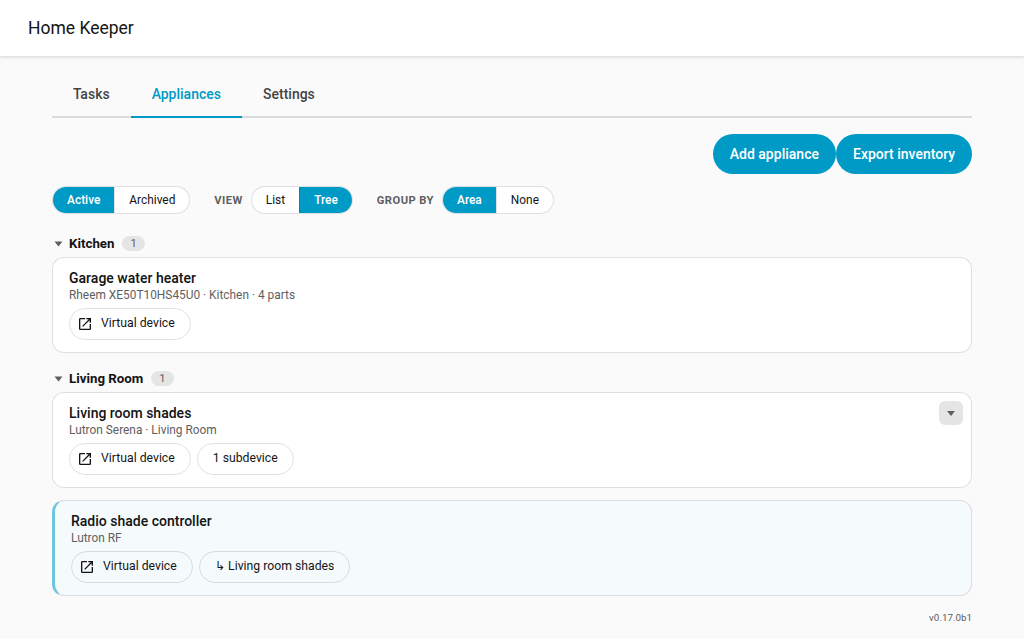
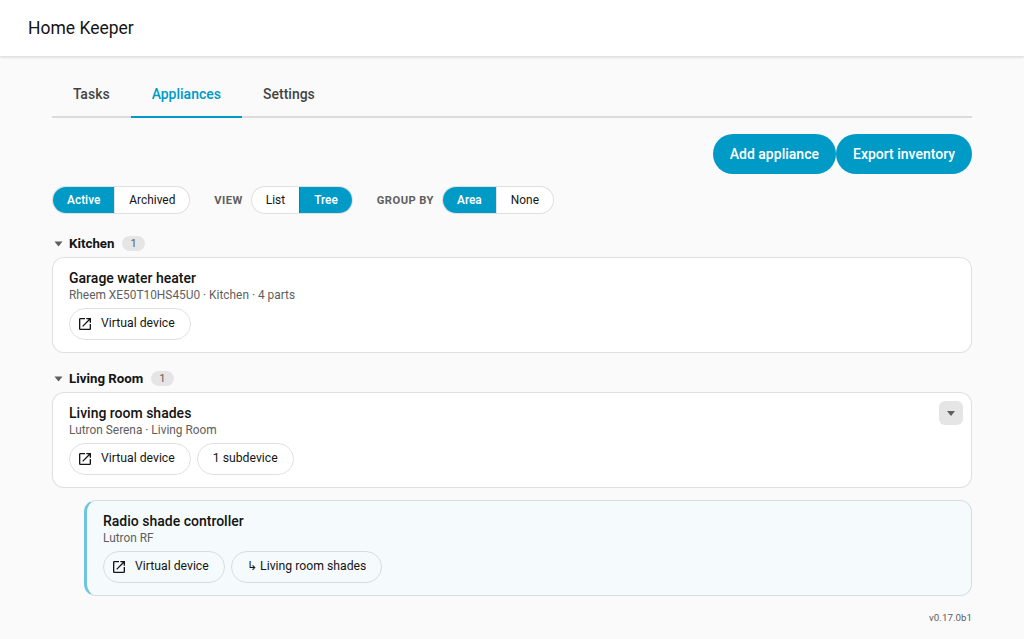
Deploy preview for PR 245 🛫

Changed region(s): [[0.0625, 0.7731, 0.375, 0.9218]]

diff --git a/pr-preview/pr-245/assets/js/33a0bd42.28cececa.js b/pr-preview/pr-245/assets/js/33a0bd42.28cececa.js
@@ -1,0 +1,1 @@
[1 lines of base64/hex data omitted]

diff --git a/pr-preview/pr-245/assets/js/runtime~main.3feedff0.js b/pr-preview/pr-245/assets/js/runtime~main.3feedff0.js
@@ -1,0 +1,1 @@
+(()=>{"use strict";var e,a,r,t,d,f={},o={};function c(e){var a=o[e];if(void 0!==a)return a.exports;var r=o[e]={exports:{}};return f[e].call(r.exports,r,r.exports,c),r.exports}c.m=f,e=[],c.O=(a,r,t,d)=>{if(!r){var f=1/0;for(i=0;i<e.length;i++){for(var[r,t,d]=e[i],o=!0,n=0;n<r.length;n++)(!1&d||f>=d)&&Object.keys(c.O).every(e=>c.O[e](r[n]))?r.splice(n--,1):(o=!1,d<f&&(f=d));if(o){e.splice(i--,1);var b=t();void 0!==b&&(a=b)}}return a}d=d||0;for(var i=e.length;i>0&&e[i-1][2]>d;i--)e[i]=e[i-1];e[i]=[r,t,d]},c.n=e=>{var a=e&&e.__esModule?()=>e.default:()=>e;return c.d(a,{a:a}),a},r=Object.getPrototypeOf?e=>Object.getPrototypeOf(e):e=>e.__proto__,c.t=function(e,t){if(1&t&&(e=this(e)),8&t)return e;if("object"==typeof e&&e){if(4&t&&e.__esModule)return e;if(16&t&&"function"==typeof e.then)return e}var d=Object.create(null);c.r(d);var f={};a=a||[null,r({}),r([]),r(r)];for(var o=2&t&&e;("object"==typeof o||"function"==typeof o)&&!~a.indexOf(o);o=r(o))Object.getOwnPropertyNames(o).forEach(a=>f[a]=()=>e[a]);return f.default=()=>e,c.d(d,f),d},c.d=(e,a)=>{for(var r in a)c.o(a,r)&&!c.o(e,r)&&Object.defineProperty(e,r,{enumerable:!0,get:a[r]})},c.f={},c.e=e=>Promise.all(Object.keys(c.f).reduce((a,r)=>(c.f[r](e,a),a),[])),c.u=e=>"assets/js/"+({19:"727f5f7d",48:"a94703ab",67:"9ea95d58",98:"a7bd4aaa",167:"a5c453dc",171:"fc68957d",194:"eb031eb3",218:"33a0bd42",231:"748fa7d3",235:"a7456010",296:"a555a233",314:"f59b0ce7",391:"482aaeb7",400:"416f68d8",401:"17896441",448:"f0720272",455:"963c638b",496:"d359df97",556:"4a8dcd3f",567:"6a330953",575:"656e7a48",580:"57102e65",583:"1df93b7f",647:"5e95c892",663:"293a8133",703:"9976885b",711:"9f585bad",742:"aba21aa0",761:"f442f329",762:"ac5cc8bb",798:"c0fd8b17",803:"2de9ff66",916:"44aadd2c",928:"28221a83",976:"0e384e19"}[e]||e)+"."+{19:"ff960871",48:"194b0b20",67:"735e0f3c",98:"4727b2a1",167:"f3801ad0",171:"521dee3f",194:"785856a3",218:"28cececa",231:"994223bc",235:"61ef240c",237:"ce0cad84",296:"672d4a00",314:"15259362",391:"830570ba",400:"0ae66aa4",401:"de810d0a",436:"13d9379e",448:"08fc69c0",455:"cd46e6de",496:"6b6fb68a",556:"c60792fc",567:"bd61b41a",575:"cebc2858",580:"81c7d3f3",583:"79716227",647:"68f6801e",663:"6bd431f2",703:"6a3d208c",711:"b568e579",742:"43a83fd0",761:"08a44d3c",762:"b3d0b036",798:"12f4d3a9",803:"473746f2",916:"c9875d3b",928:"d6af2d9d",976:"c6ca4c8d"}[e]+".js",c.miniCssF=e=>{},c.o=(e,a)=>Object.prototype.hasOwnProperty.call(e,a),t={},d="home-keeper-docs:",c.l=(e,a,r,f)=>{if(t[e])t[e].push(a);else{var o,n;if(void 0!==r)for(var b=document.getElementsByTagName("script"),i=0;i<b.length;i++){var l=b[i];if(l.getAttribute("src")==e||l.getAttribute("data-webpack")==d+r){o=l;break}}o||(n=!0,(o=document.createElement("script")).charset="utf-8",c.nc&&o.setAttribute("nonce",c.nc),o.setAttribute("data-webpack",d+r),o.src=e),t[e]=[a];var u=(a,r)=>{o.onerror=o.onload=null,clearTimeout(s);var d=t[e];if(delete t[e],o.parentNode&&o.parentNode.removeChild(o),d&&d.forEach(e=>e(r)),a)return a(r)},s=setTimeout(u.bind(null,void 0,{type:"timeout",target:o}),12e4);o.onerror=u.bind(null,o.onerror),o.onload=u.bind(null,o.onload),n&&document.head.appendChild(o)}},c.r=e=>{"undefined"!=typeof Symbol&&Symbol.toStringTag&&Object.defineProperty(e,Symbol.toStringTag,{value:"Module"}),Object.defineProperty(e,"__esModule",{value:!0})},c.dn=e=>{(Object.getOwnPropertyDescriptor(e,"name")||{}).writable||Object.defineProperty(e,"name",{value:"default",configurable:!0})},c.p="/ha-home-keeper/pr-preview/pr-245/",c.gca=function(e){return e={17896441:"401","727f5f7d":"19",a94703ab:"48","9ea95d58":"67",a7bd4aaa:"98",a5c453dc:"167",fc68957d:"171",eb031eb3:"194","33a0bd42":"218","748fa7d3":"231",a7456010:"235",a555a233:"296",f59b0ce7:"314","482aaeb7":"391","416f68d8":"400",f0720272:"448","963c638b":"455",d359df97:"496","4a8dcd3f":"556","6a330953":"567","656e7a48":"575","57102e65":"580","1df93b7f":"583","5e95c892":"647","293a8133":"663","9976885b":"703","9f585bad":"711",aba21aa0:"742",f442f329:"761",ac5cc8bb:"762",c0fd8b17:"798","2de9ff66":"803","44aadd2c":"916","28221a83":"928","0e384e19":"976"}[e]||e,c.p+c.u(e)},(()=>{var e={354:0,869:0};c.f.j=(a,r)=>{var t=c.o(e,a)?e[a]:void 0;if(0!==t)if(t)r.push(t[2]);else if(/^(354|869)$/.test(a))e[a]=0;else{var d=new Promise((r,d)=>t=e[a]=[r,d]);r.push(t[2]=d);var f=c.p+c.u(a),o=new Error;c.l(f,r=>{if(c.o(e,a)&&(0!==(t=e[a])&&(e[a]=void 0),t)){var d=r&&("load"===r.type?"missing":r.type),f=r&&r.target&&r.target.src;o.message="Loading chunk "+a+" failed.\n("+d+": "+f+")",o.name="ChunkLoadError",o.type=d,o.request=f,t[1](o)}},"chunk-"+a,a)}},c.O.j=a=>0===e[a];var a=(a,r)=>{var t,d,[f,o,n]=r,b=0;if(f.some(a=>0!==e[a])){for(t in o)c.o(o,t)&&(c.m[t]=o[t]);if(n)var i=n(c)}for(a&&a(r);b<f.length;b++)d=f[b],c.o(e,d)&&e[d]&&e[d][0](),e[d]=0;return c.O(i)},r=globalThis.webpackChunkhome_keeper_docs=globalThis.webpackChunkhome_keeper_docs||[];r.forEach(a.bind(null,0)),r.push=a.bind(null,r.push.bind(r))})()})();

diff --git a/pr-preview/pr-245/docs/guide/appliances.html b/pr-preview/pr-245/docs/guide/appliances.html
@@ -4,7 +4,7 @@
 <meta charset="UTF-8">
 <meta name="generator" content="Docusaurus v3.10.1">
 <title data-rh="true">Appliances | Home Keeper</title><meta data-rh="true" name="viewport" content="width=device-width,initial-scale=1"><meta data-rh="true" name="twitter:card" content="summary_large_image"><meta data-rh="true" property="og:image" content="https://prestomation.github.io/ha-home-keeper/pr-preview/pr-245/img/logo.svg"><meta data-rh="true" name="twitter:image" content="https://prestomation.github.io/ha-home-keeper/pr-preview/pr-245/img/logo.svg"><meta data-rh="true" property="og:url" content="https://prestomation.github.io/ha-home-keeper/pr-preview/pr-245/docs/guide/appliances"><meta data-rh="true" property="og:locale" content="en"><meta data-rh="true" name="docusaurus_locale" content="en"><meta data-rh="true" name="docsearch:language" content="en"><meta data-rh="true" name="docusaurus_version" content="current"><meta data-rh="true" name="docusaurus_tag" content="docs-default-current"><meta data-rh="true" name="docsearch:version" content="current"><meta data-rh="true" name="docsearch:docusaurus_tag" content="docs-default-current"><meta data-rh="true" property="og:title" content="Appliances | Home Keeper"><meta data-rh="true" name="description" content="Most appliances you actually maintain (a &quot;dumb&quot; fridge, furnace, or water heater)"><meta data-rh="true" property="og:description" content="Most appliances you actually maintain (a &quot;dumb&quot; fridge, furnace, or water heater)"><link data-rh="true" rel="icon" href="/ha-home-keeper/pr-preview/pr-245/img/favicon.svg"><link data-rh="true" rel="canonical" href="https://prestomation.github.io/ha-home-keeper/pr-preview/pr-245/docs/guide/appliances"><link data-rh="true" rel="alternate" href="https://prestomation.github.io/ha-home-keeper/pr-preview/pr-245/docs/guide/appliances" hreflang="en"><link data-rh="true" rel="alternate" href="https://prestomation.github.io/ha-home-keeper/pr-preview/pr-245/docs/guide/appliances" hreflang="x-default"><script data-rh="true" type="application/ld+json">{"@context":"https://schema.org","@type":"BreadcrumbList","itemListElement":[{"@type":"ListItem","position":1,"name":"Appliances","item":"https://prestomation.github.io/ha-home-keeper/pr-preview/pr-245/docs/guide/appliances"}]}</script><link rel="stylesheet" href="/ha-home-keeper/pr-preview/pr-245/assets/css/styles.12814b72.css">
-<script src="/ha-home-keeper/pr-preview/pr-245/assets/js/runtime~main.90402807.js" defer="defer"></script>
+<script src="/ha-home-keeper/pr-preview/pr-245/assets/js/runtime~main.3feedff0.js" defer="defer"></script>
 <script src="/ha-home-keeper/pr-preview/pr-245/assets/js/main.22548157.js" defer="defer"></script>
 </head>
 <body>
@@ -63,7 +63,7 @@ of the list switches between a flat list and a tree view that nests children und
 their parents, indented with a left border. The Group-by control is hidden in tree
 mode (the hierarchy is the grouping) but its stored value is preserved for when you
 switch back to the flat list.</p>
-<p><img decoding="async" loading="lazy" alt="Tree view" src="/ha-home-keeper/pr-preview/pr-245/assets/images/5c-panel-appliances-tree-view-04d067e2bee5db625c6b76ec1292ff26.png" width="1280" height="720" class="img_ev3q"></p>
+<p><img decoding="async" loading="lazy" alt="Tree view" src="/ha-home-keeper/pr-preview/pr-245/assets/images/5c-panel-appliances-tree-view-a2a02e996fd9f9cde1f570f7f3869642.png" width="1024" height="585" class="img_ev3q"></p>
 <h3 class="anchor anchorTargetStickyNavbar_Vzrq" id="parts--wear-items">Parts &amp; wear items<a href="#parts--wear-items" class="hash-link" aria-label="Direct link to Parts &amp; wear items" title="Direct link to Parts &amp; wear items" translate="no"></a></h3>
 <p>Each appliance has a structured <strong>parts</strong> list, name, part number, vendor, cost,
 free-form <strong>notes</strong> (rendered as <a class="" href="/ha-home-keeper/pr-preview/pr-245/docs/guide/markdown-notes">Markdown</a> under the part, for

diff --git a/pr-preview/pr-245/index.html b/pr-preview/pr-245/index.html
@@ -4,7 +4,7 @@
 <meta charset="UTF-8">
 <meta name="generator" content="Docusaurus v3.10.1">
 <title data-rh="true">Home Keeper</title><meta data-rh="true" name="viewport" content="width=device-width,initial-scale=1"><meta data-rh="true" name="twitter:card" content="summary_large_image"><meta data-rh="true" property="og:image" content="https://prestomation.github.io/ha-home-keeper/pr-preview/pr-245/img/logo.svg"><meta data-rh="true" name="twitter:image" content="https://prestomation.github.io/ha-home-keeper/pr-preview/pr-245/img/logo.svg"><meta data-rh="true" property="og:url" content="https://prestomation.github.io/ha-home-keeper/pr-preview/pr-245/"><meta data-rh="true" property="og:locale" content="en"><meta data-rh="true" name="docusaurus_locale" content="en"><meta data-rh="true" name="docusaurus_tag" content="default"><meta data-rh="true" name="docsearch:language" content="en"><meta data-rh="true" name="docsearch:docusaurus_tag" content="default"><meta data-rh="true" property="og:title" content="Home Keeper"><meta data-rh="true" name="description" content="Track home maintenance and chores in Home Assistant — filters, medicine, and anything else that recurs."><meta data-rh="true" property="og:description" content="Track home maintenance and chores in Home Assistant — filters, medicine, and anything else that recurs."><link data-rh="true" rel="icon" href="/ha-home-keeper/pr-preview/pr-245/img/favicon.svg"><link data-rh="true" rel="canonical" href="https://prestomation.github.io/ha-home-keeper/pr-preview/pr-245/"><link data-rh="true" rel="alternate" href="https://prestomation.github.io/ha-home-keeper/pr-preview/pr-245/" hreflang="en"><link data-rh="true" rel="alternate" href="https://prestomation.github.io/ha-home-keeper/pr-preview/pr-245/" hreflang="x-default"><script data-rh="true">function insertBanner(){var e=document.createElement("div");e.id="__docusaurus-base-url-issue-banner-container";e.innerHTML='\n<div id="__docusaurus-base-url-issue-banner" style="border: thick solid red; background-color: rgb(255, 230, 179); margin: 20px; padding: 20px; font-size: 20px;">\n   <p style="font-weight: bold; font-size: 30px;">Your Docusaurus site did not load properly.</p>\n   <p>A very common reason is a wrong site <a href="https://docusaurus.io/docs/docusaurus.config.js/#baseUrl" style="font-weight: bold;">baseUrl configuration</a>.</p>\n   <p>Current configured baseUrl = <span style="font-weight: bold; color: red;">/ha-home-keeper/pr-preview/pr-245/</span> </p>\n   <p>We suggest trying baseUrl = <span id="__docusaurus-base-url-issue-banner-suggestion-container" style="font-weight: bold; color: green;"></span></p>\n</div>\n',document.body.prepend(e);var n=document.getElementById("__docusaurus-base-url-issue-banner-suggestion-container"),r=window.location.pathname,s="/"===r.substr(-1)?r:r+"/";n.innerHTML=s}document.addEventListener("DOMContentLoaded",function(){void 0===window.docusaurus&&insertBanner()})</script><link rel="stylesheet" href="/ha-home-keeper/pr-preview/pr-245/assets/css/styles.12814b72.css">
-<script src="/ha-home-keeper/pr-preview/pr-245/assets/js/runtime~main.90402807.js" defer="defer"></script>
+<script src="/ha-home-keeper/pr-preview/pr-245/assets/js/runtime~main.3feedff0.js" defer="defer"></script>
 <script src="/ha-home-keeper/pr-preview/pr-245/assets/js/main.22548157.js" defer="defer"></script>
 </head>
 <body>

diff --git a/pr-preview/pr-245/docs/guide/migration-2026-8.html b/pr-preview/pr-245/docs/guide/migration-2026-8.html
@@ -4,7 +4,7 @@
 <meta charset="UTF-8">
 <meta name="generator" content="Docusaurus v3.10.1">
 <title data-rh="true">Upgrading to Home Assistant 2026.8 | Home Keeper</title><meta data-rh="true" name="viewport" content="width=device-width,initial-scale=1"><meta data-rh="true" name="twitter:card" content="summary_large_image"><meta data-rh="true" property="og:image" content="https://prestomation.github.io/ha-home-keeper/pr-preview/pr-245/img/logo.svg"><meta data-rh="true" name="twitter:image" content="https://prestomation.github.io/ha-home-keeper/pr-preview/pr-245/img/logo.svg"><meta data-rh="true" property="og:url" content="https://prestomation.github.io/ha-home-keeper/pr-preview/pr-245/docs/guide/migration-2026-8"><meta data-rh="true" property="og:locale" content="en"><meta data-rh="true" name="docusaurus_locale" content="en"><meta data-rh="true" name="docsearch:language" content="en"><meta data-rh="true" name="docusaurus_version" content="current"><meta data-rh="true" name="docusaurus_tag" content="docs-default-current"><meta data-rh="true" name="docsearch:version" content="current"><meta data-rh="true" name="docsearch:docusaurus_tag" content="docs-default-current"><meta data-rh="true" property="og:title" content="Upgrading to Home Assistant 2026.8 | Home Keeper"><meta data-rh="true" name="description" content="Home Assistant 2026.8 changed how devices work: a device now belongs to one"><meta data-rh="true" property="og:description" content="Home Assistant 2026.8 changed how devices work: a device now belongs to one"><link data-rh="true" rel="icon" href="/ha-home-keeper/pr-preview/pr-245/img/favicon.svg"><link data-rh="true" rel="canonical" href="https://prestomation.github.io/ha-home-keeper/pr-preview/pr-245/docs/guide/migration-2026-8"><link data-rh="true" rel="alternate" href="https://prestomation.github.io/ha-home-keeper/pr-preview/pr-245/docs/guide/migration-2026-8" hreflang="en"><link data-rh="true" rel="alternate" href="https://prestomation.github.io/ha-home-keeper/pr-preview/pr-245/docs/guide/migration-2026-8" hreflang="x-default"><script data-rh="true" type="application/ld+json">{"@context":"https://schema.org","@type":"BreadcrumbList","itemListElement":[{"@type":"ListItem","position":1,"name":"HA 2026.8 migration","item":"https://prestomation.github.io/ha-home-keeper/pr-preview/pr-245/docs/guide/migration-2026-8"}]}</script><link rel="stylesheet" href="/ha-home-keeper/pr-preview/pr-245/assets/css/styles.12814b72.css">
-<script src="/ha-home-keeper/pr-preview/pr-245/assets/js/runtime~main.90402807.js" defer="defer"></script>
+<script src="/ha-home-keeper/pr-preview/pr-245/assets/js/runtime~main.3feedff0.js" defer="defer"></script>
 <script src="/ha-home-keeper/pr-preview/pr-245/assets/js/main.22548157.js" defer="defer"></script>
 </head>
 <body>

diff --git a/pr-preview/pr-245/docs/guide/triggered-tasks.html b/pr-preview/pr-245/docs/guide/triggered-tasks.html
@@ -4,7 +4,7 @@
 <meta charset="UTF-8">
 <meta name="generator" content="Docusaurus v3.10.1">
 <title data-rh="true">Triggered tasks | Home Keeper</title><meta data-rh="true" name="viewport" content="width=device-width,initial-scale=1"><meta data-rh="true" name="twitter:card" content="summary_large_image"><meta data-rh="true" property="og:image" content="https://prestomation.github.io/ha-home-keeper/pr-preview/pr-245/img/logo.svg"><meta data-rh="true" name="twitter:image" content="https://prestomation.github.io/ha-home-keeper/pr-preview/pr-245/img/logo.svg"><meta data-rh="true" property="og:url" content="https://prestomation.github.io/ha-home-keeper/pr-preview/pr-245/docs/guide/triggered-tasks"><meta data-rh="true" property="og:locale" content="en"><meta data-rh="true" name="docusaurus_locale" content="en"><meta data-rh="true" name="docsearch:language" content="en"><meta data-rh="true" name="docusaurus_version" content="current"><meta data-rh="true" name="docusaurus_tag" content="docs-default-current"><meta data-rh="true" name="docsearch:version" content="current"><meta data-rh="true" name="docsearch:docusaurus_tag" content="docs-default-current"><meta data-rh="true" property="og:title" content="Triggered tasks | Home Keeper"><meta data-rh="true" name="description" content="Some upkeep isn&#x27;t periodic. It&#x27;s a reaction to a condition, like a battery dropping"><meta data-rh="true" property="og:description" content="Some upkeep isn&#x27;t periodic. It&#x27;s a reaction to a condition, like a battery dropping"><link data-rh="true" rel="icon" href="/ha-home-keeper/pr-preview/pr-245/img/favicon.svg"><link data-rh="true" rel="canonical" href="https://prestomation.github.io/ha-home-keeper/pr-preview/pr-245/docs/guide/triggered-tasks"><link data-rh="true" rel="alternate" href="https://prestomation.github.io/ha-home-keeper/pr-preview/pr-245/docs/guide/triggered-tasks" hreflang="en"><link data-rh="true" rel="alternate" href="https://prestomation.github.io/ha-home-keeper/pr-preview/pr-245/docs/guide/triggered-tasks" hreflang="x-default"><script data-rh="true" type="application/ld+json">{"@context":"https://schema.org","@type":"BreadcrumbList","itemListElement":[{"@type":"ListItem","position":1,"name":"Triggered tasks","item":"https://prestomation.github.io/ha-home-keeper/pr-preview/pr-245/docs/guide/triggered-tasks"}]}</script><link rel="stylesheet" href="/ha-home-keeper/pr-preview/pr-245/assets/css/styles.12814b72.css">
-<script src="/ha-home-keeper/pr-preview/pr-245/assets/js/runtime~main.90402807.js" defer="defer"></script>
+<script src="/ha-home-keeper/pr-preview/pr-245/assets/js/runtime~main.3feedff0.js" defer="defer"></script>
 <script src="/ha-home-keeper/pr-preview/pr-245/assets/js/main.22548157.js" defer="defer"></script>
 </head>
 <body>

diff --git a/pr-preview/pr-245/developer/glue-integrations.html b/pr-preview/pr-245/developer/glue-integrations.html
@@ -4,7 +4,7 @@
 <meta charset="UTF-8">
 <meta name="generator" content="Docusaurus v3.10.1">
 <title data-rh="true">Glue integrations | Home Keeper</title><meta data-rh="true" name="viewport" content="width=device-width,initial-scale=1"><meta data-rh="true" name="twitter:card" content="summary_large_image"><meta data-rh="true" property="og:image" content="https://prestomation.github.io/ha-home-keeper/pr-preview/pr-245/img/logo.svg"><meta data-rh="true" name="twitter:image" content="https://prestomation.github.io/ha-home-keeper/pr-preview/pr-245/img/logo.svg"><meta data-rh="true" property="og:url" content="https://prestomation.github.io/ha-home-keeper/pr-preview/pr-245/developer/glue-integrations"><meta data-rh="true" property="og:locale" content="en"><meta data-rh="true" name="docusaurus_locale" content="en"><meta data-rh="true" name="docsearch:language" content="en"><meta data-rh="true" name="docusaurus_version" content="current"><meta data-rh="true" name="docusaurus_tag" content="docs-developer-current"><meta data-rh="true" name="docsearch:version" content="current"><meta data-rh="true" name="docsearch:docusaurus_tag" content="docs-developer-current"><meta data-rh="true" property="og:title" content="Glue integrations | Home Keeper"><meta data-rh="true" name="description" content="A glue integration is a small, standalone Home Assistant integration whose only job"><meta data-rh="true" property="og:description" content="A glue integration is a small, standalone Home Assistant integration whose only job"><link data-rh="true" rel="icon" href="/ha-home-keeper/pr-preview/pr-245/img/favicon.svg"><link data-rh="true" rel="canonical" href="https://prestomation.github.io/ha-home-keeper/pr-preview/pr-245/developer/glue-integrations"><link data-rh="true" rel="alternate" href="https://prestomation.github.io/ha-home-keeper/pr-preview/pr-245/developer/glue-integrations" hreflang="en"><link data-rh="true" rel="alternate" href="https://prestomation.github.io/ha-home-keeper/pr-preview/pr-245/developer/glue-integrations" hreflang="x-default"><script data-rh="true" type="application/ld+json">{"@context":"https://schema.org","@type":"BreadcrumbList","itemListElement":[{"@type":"ListItem","position":1,"name":"Glue integrations","item":"https://prestomation.github.io/ha-home-keeper/pr-preview/pr-245/developer/glue-integrations"}]}</script><link rel="stylesheet" href="/ha-home-keeper/pr-preview/pr-245/assets/css/styles.12814b72.css">
-<script src="/ha-home-keeper/pr-preview/pr-245/assets/js/runtime~main.90402807.js" defer="defer"></script>
+<script src="/ha-home-keeper/pr-preview/pr-245/assets/js/runtime~main.3feedff0.js" defer="defer"></script>
 <script src="/ha-home-keeper/pr-preview/pr-245/assets/js/main.22548157.js" defer="defer"></script>
 </head>
 <body>

diff --git a/pr-preview/pr-245/developer/integrating.html b/pr-preview/pr-245/developer/integrating.html
@@ -4,7 +4,7 @@
 <meta charset="UTF-8">
 <meta name="generator" content="Docusaurus v3.10.1">
 <title data-rh="true">Integrating with Home Keeper | Home Keeper</title><meta data-rh="true" name="viewport" content="width=device-width,initial-scale=1"><meta data-rh="true" name="twitter:card" content="summary_large_image"><meta data-rh="true" property="og:image" content="https://prestomation.github.io/ha-home-keeper/pr-preview/pr-245/img/logo.svg"><meta data-rh="true" name="twitter:image" content="https://prestomation.github.io/ha-home-keeper/pr-preview/pr-245/img/logo.svg"><meta data-rh="true" property="og:url" content="https://prestomation.github.io/ha-home-keeper/pr-preview/pr-245/developer/integrating"><meta data-rh="true" property="og:locale" content="en"><meta data-rh="true" name="docusaurus_locale" content="en"><meta data-rh="true" name="docsearch:language" content="en"><meta data-rh="true" name="docusaurus_version" content="current"><meta data-rh="true" name="docusaurus_tag" content="docs-developer-current"><meta data-rh="true" name="docsearch:version" content="current"><meta data-rh="true" name="docsearch:docusaurus_tag" content="docs-developer-current"><meta data-rh="true" property="og:title" content="Integrating with Home Keeper | Home Keeper"><meta data-rh="true" name="description" content="This guide is for authors of other Home Assistant integrations who want to push"><meta data-rh="true" property="og:description" content="This guide is for authors of other Home Assistant integrations who want to push"><link data-rh="true" rel="icon" href="/ha-home-keeper/pr-preview/pr-245/img/favicon.svg"><link data-rh="true" rel="canonical" href="https://prestomation.github.io/ha-home-keeper/pr-preview/pr-245/developer/integrating"><link data-rh="true" rel="alternate" href="https://prestomation.github.io/ha-home-keeper/pr-preview/pr-245/developer/integrating" hreflang="en"><link data-rh="true" rel="alternate" href="https://prestomation.github.io/ha-home-keeper/pr-preview/pr-245/developer/integrating" hreflang="x-default"><script data-rh="true" type="application/ld+json">{"@context":"https://schema.org","@type":"BreadcrumbList","itemListElement":[{"@type":"ListItem","position":1,"name":"Integrating","item":"https://prestomation.github.io/ha-home-keeper/pr-preview/pr-245/developer/integrating"}]}</script><link rel="stylesheet" href="/ha-home-keeper/pr-preview/pr-245/assets/css/styles.12814b72.css">
-<script src="/ha-home-keeper/pr-preview/pr-245/assets/js/runtime~main.90402807.js" defer="defer"></script>
+<script src="/ha-home-keeper/pr-preview/pr-245/assets/js/runtime~main.3feedff0.js" defer="defer"></script>
 <script src="/ha-home-keeper/pr-preview/pr-245/assets/js/main.22548157.js" defer="defer"></script>
 </head>
 <body>

diff --git a/pr-preview/pr-245/docs/guide/dashboard-card.html b/pr-preview/pr-245/docs/guide/dashboard-card.html
@@ -4,7 +4,7 @@
 <meta charset="UTF-8">
 <meta name="generator" content="Docusaurus v3.10.1">
 <title data-rh="true">Dashboard card | Home Keeper</title><meta data-rh="true" name="viewport" content="width=device-width,initial-scale=1"><meta data-rh="true" name="twitter:card" content="summary_large_image"><meta data-rh="true" property="og:image" content="https://prestomation.github.io/ha-home-keeper/pr-preview/pr-245/img/logo.svg"><meta data-rh="true" name="twitter:image" content="https://prestomation.github.io/ha-home-keeper/pr-preview/pr-245/img/logo.svg"><meta data-rh="true" property="og:url" content="https://prestomation.github.io/ha-home-keeper/pr-preview/pr-245/docs/guide/dashboard-card"><meta data-rh="true" property="og:locale" content="en"><meta data-rh="true" name="docusaurus_locale" content="en"><meta data-rh="true" name="docsearch:language" content="en"><meta data-rh="true" name="docusaurus_version" content="current"><meta data-rh="true" name="docusaurus_tag" content="docs-default-current"><meta data-rh="true" name="docsearch:version" content="current"><meta data-rh="true" name="docsearch:docusaurus_tag" content="docs-default-current"><meta data-rh="true" property="og:title" content="Dashboard card | Home Keeper"><meta data-rh="true" name="description" content="The bundled Home Keeper Tasks card (custom:home-keeper-card) is a resizable list"><meta data-rh="true" property="og:description" content="The bundled Home Keeper Tasks card (custom:home-keeper-card) is a resizable list"><link data-rh="true" rel="icon" href="/ha-home-keeper/pr-preview/pr-245/img/favicon.svg"><link data-rh="true" rel="canonical" href="https://prestomation.github.io/ha-home-keeper/pr-preview/pr-245/docs/guide/dashboard-card"><link data-rh="true" rel="alternate" href="https://prestomation.github.io/ha-home-keeper/pr-preview/pr-245/docs/guide/dashboard-card" hreflang="en"><link data-rh="true" rel="alternate" href="https://prestomation.github.io/ha-home-keeper/pr-preview/pr-245/docs/guide/dashboard-card" hreflang="x-default"><script data-rh="true" type="application/ld+json">{"@context":"https://schema.org","@type":"BreadcrumbList","itemListElement":[{"@type":"ListItem","position":1,"name":"Dashboard card","item":"https://prestomation.github.io/ha-home-keeper/pr-preview/pr-245/docs/guide/dashboard-card"}]}</script><link rel="stylesheet" href="/ha-home-keeper/pr-preview/pr-245/assets/css/styles.12814b72.css">
-<script src="/ha-home-keeper/pr-preview/pr-245/assets/js/runtime~main.90402807.js" defer="defer"></script>
+<script src="/ha-home-keeper/pr-preview/pr-245/assets/js/runtime~main.3feedff0.js" defer="defer"></script>
 <script src="/ha-home-keeper/pr-preview/pr-245/assets/js/main.22548157.js" defer="defer"></script>
 </head>
 <body>

diff --git a/pr-preview/pr-245/docs/guide/sensor-tasks.html b/pr-preview/pr-245/docs/guide/sensor-tasks.html
@@ -4,7 +4,7 @@
 <meta charset="UTF-8">
 <meta name="generator" content="Docusaurus v3.10.1">
 <title data-rh="true">Sensor-based tasks | Home Keeper</title><meta data-rh="true" name="viewport" content="width=device-width,initial-scale=1"><meta data-rh="true" name="twitter:card" content="summary_large_image"><meta data-rh="true" property="og:image" content="https://prestomation.github.io/ha-home-keeper/pr-preview/pr-245/img/logo.svg"><meta data-rh="true" name="twitter:image" content="https://prestomation.github.io/ha-home-keeper/pr-preview/pr-245/img/logo.svg"><meta data-rh="true" property="og:url" content="https://prestomation.github.io/ha-home-keeper/pr-preview/pr-245/docs/guide/sensor-tasks"><meta data-rh="true" property="og:locale" content="en"><meta data-rh="true" name="docusaurus_locale" content="en"><meta data-rh="true" name="docsearch:language" content="en"><meta data-rh="true" name="docusaurus_version" content="current"><meta data-rh="true" name="docusaurus_tag" content="docs-default-current"><meta data-rh="true" name="docsearch:version" content="current"><meta data-rh="true" name="docsearch:docusaurus_tag" content="docs-default-current"><meta data-rh="true" property="og:title" content="Sensor-based tasks | Home Keeper"><meta data-rh="true" name="description" content="Some maintenance isn&#x27;t measured in time but in use: oil every 15,000 km, a"><meta data-rh="true" property="og:description" content="Some maintenance isn&#x27;t measured in time but in use: oil every 15,000 km, a"><link data-rh="true" rel="icon" href="/ha-home-keeper/pr-preview/pr-245/img/favicon.svg"><link data-rh="true" rel="canonical" href="https://prestomation.github.io/ha-home-keeper/pr-preview/pr-245/docs/guide/sensor-tasks"><link data-rh="true" rel="alternate" href="https://prestomation.github.io/ha-home-keeper/pr-preview/pr-245/docs/guide/sensor-tasks" hreflang="en"><link data-rh="true" rel="alternate" href="https://prestomation.github.io/ha-home-keeper/pr-preview/pr-245/docs/guide/sensor-tasks" hreflang="x-default"><script data-rh="true" type="application/ld+json">{"@context":"https://schema.org","@type":"BreadcrumbList","itemListElement":[{"@type":"ListItem","position":1,"name":"Sensor-based tasks","item":"https://prestomation.github.io/ha-home-keeper/pr-preview/pr-245/docs/guide/sensor-tasks"}]}</script><link rel="stylesheet" href="/ha-home-keeper/pr-preview/pr-245/assets/css/styles.12814b72.css">
-<script src="/ha-home-keeper/pr-preview/pr-245/assets/js/runtime~main.90402807.js" defer="defer"></script>
+<script src="/ha-home-keeper/pr-preview/pr-245/assets/js/runtime~main.3feedff0.js" defer="defer"></script>
 <script src="/ha-home-keeper/pr-preview/pr-245/assets/js/main.22548157.js" defer="defer"></script>
 </head>
 <body>

diff --git a/pr-preview/pr-245/docs/guide/notifications.html b/pr-preview/pr-245/docs/guide/notifications.html
@@ -4,7 +4,7 @@
 <meta charset="UTF-8">
 <meta name="generator" content="Docusaurus v3.10.1">
 <title data-rh="true">Notifications | Home Keeper</title><meta data-rh="true" name="viewport" content="width=device-width,initial-scale=1"><meta data-rh="true" name="twitter:card" content="summary_large_image"><meta data-rh="true" property="og:image" content="https://prestomation.github.io/ha-home-keeper/pr-preview/pr-245/img/logo.svg"><meta data-rh="true" name="twitter:image" content="https://prestomation.github.io/ha-home-keeper/pr-preview/pr-245/img/logo.svg"><meta data-rh="true" property="og:url" content="https://prestomation.github.io/ha-home-keeper/pr-preview/pr-245/docs/guide/notifications"><meta data-rh="true" property="og:locale" content="en"><meta data-rh="true" name="docusaurus_locale" content="en"><meta data-rh="true" name="docsearch:language" content="en"><meta data-rh="true" name="docusaurus_version" content="current"><meta data-rh="true" name="docusaurus_tag" content="docs-default-current"><meta data-rh="true" name="docsearch:version" content="current"><meta data-rh="true" name="docsearch:docusaurus_tag" content="docs-default-current"><meta data-rh="true" property="og:title" content="Notifications | Home Keeper"><meta data-rh="true" name="description" content="Home Keeper can push a mobile-app notification for what&#x27;s due, with tappable"><meta data-rh="true" property="og:description" content="Home Keeper can push a mobile-app notification for what&#x27;s due, with tappable"><link data-rh="true" rel="icon" href="/ha-home-keeper/pr-preview/pr-245/img/favicon.svg"><link data-rh="true" rel="canonical" href="https://prestomation.github.io/ha-home-keeper/pr-preview/pr-245/docs/guide/notifications"><link data-rh="true" rel="alternate" href="https://prestomation.github.io/ha-home-keeper/pr-preview/pr-245/docs/guide/notifications" hreflang="en"><link data-rh="true" rel="alternate" href="https://prestomation.github.io/ha-home-keeper/pr-preview/pr-245/docs/guide/notifications" hreflang="x-default"><script data-rh="true" type="application/ld+json">{"@context":"https://schema.org","@type":"BreadcrumbList","itemListElement":[{"@type":"ListItem","position":1,"name":"Notifications","item":"https://prestomation.github.io/ha-home-keeper/pr-preview/pr-245/docs/guide/notifications"}]}</script><link rel="stylesheet" href="/ha-home-keeper/pr-preview/pr-245/assets/css/styles.12814b72.css">
-<script src="/ha-home-keeper/pr-preview/pr-245/assets/js/runtime~main.90402807.js" defer="defer"></script>
+<script src="/ha-home-keeper/pr-preview/pr-245/assets/js/runtime~main.3feedff0.js" defer="defer"></script>
 <script src="/ha-home-keeper/pr-preview/pr-245/assets/js/main.22548157.js" defer="defer"></script>
 </head>
 <body>

diff --git a/pr-preview/pr-245/docs/guide/completions.html b/pr-preview/pr-245/docs/guide/completions.html
@@ -4,7 +4,7 @@
 <meta charset="UTF-8">
 <meta name="generator" content="Docusaurus v3.10.1">
 <title data-rh="true">Logging completions | Home Keeper</title><meta data-rh="true" name="viewport" content="width=device-width,initial-scale=1"><meta data-rh="true" name="twitter:card" content="summary_large_image"><meta data-rh="true" property="og:image" content="https://prestomation.github.io/ha-home-keeper/pr-preview/pr-245/img/logo.svg"><meta data-rh="true" name="twitter:image" content="https://prestomation.github.io/ha-home-keeper/pr-preview/pr-245/img/logo.svg"><meta data-rh="true" property="og:url" content="https://prestomation.github.io/ha-home-keeper/pr-preview/pr-245/docs/guide/completions"><meta data-rh="true" property="og:locale" content="en"><meta data-rh="true" name="docusaurus_locale" content="en"><meta data-rh="true" name="docsearch:language" content="en"><meta data-rh="true" name="docusaurus_version" content="current"><meta data-rh="true" name="docusaurus_tag" content="docs-default-current"><meta data-rh="true" name="docsearch:version" content="current"><meta data-rh="true" name="docsearch:docusaurus_tag" content="docs-default-current"><meta data-rh="true" property="og:title" content="Logging completions | Home Keeper"><meta data-rh="true" name="description" content="By default marking a task Done is one tap. But for the chores you want a record"><meta data-rh="true" property="og:description" content="By default marking a task Done is one tap. But for the chores you want a record"><link data-rh="true" rel="icon" href="/ha-home-keeper/pr-preview/pr-245/img/favicon.svg"><link data-rh="true" rel="canonical" href="https://prestomation.github.io/ha-home-keeper/pr-preview/pr-245/docs/guide/completions"><link data-rh="true" rel="alternate" href="https://prestomation.github.io/ha-home-keeper/pr-preview/pr-245/docs/guide/completions" hreflang="en"><link data-rh="true" rel="alternate" href="https://prestomation.github.io/ha-home-keeper/pr-preview/pr-245/docs/guide/completions" hreflang="x-default"><script data-rh="true" type="application/ld+json">{"@context":"https://schema.org","@type":"BreadcrumbList","itemListElement":[{"@type":"ListItem","position":1,"name":"Completions","item":"https://prestomation.github.io/ha-home-keeper/pr-preview/pr-245/docs/guide/completions"}]}</script><link rel="stylesheet" href="/ha-home-keeper/pr-preview/pr-245/assets/css/styles.12814b72.css">
-<script src="/ha-home-keeper/pr-preview/pr-245/assets/js/runtime~main.90402807.js" defer="defer"></script>
+<script src="/ha-home-keeper/pr-preview/pr-245/assets/js/runtime~main.3feedff0.js" defer="defer"></script>
 <script src="/ha-home-keeper/pr-preview/pr-245/assets/js/main.22548157.js" defer="defer"></script>
 </head>
 <body>
